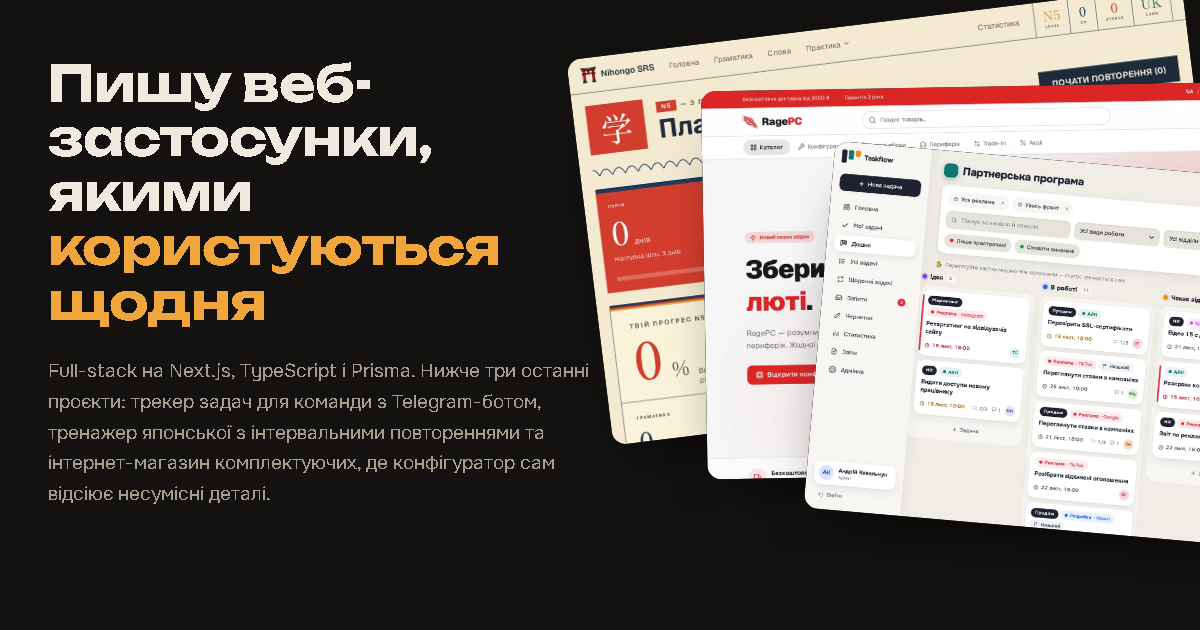
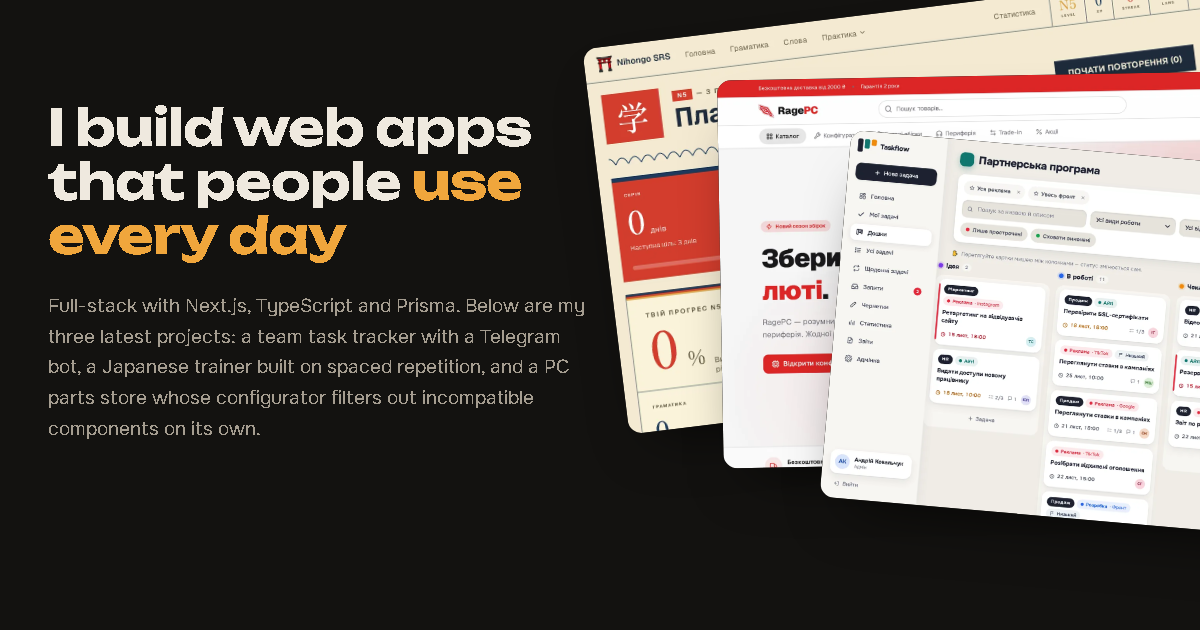
Portfolio in English

diff --git a/index.html b/index.html
@@ -1,13 +1,13 @@
 <!doctype html>
-<html lang="uk">
+<html lang="en">
 <head>
 <meta charset="utf-8">
 <meta name="viewport" content="width=device-width, initial-scale=1">
-<title>Mariia157 — портфоліо</title>
-<meta name="description" content="Full-stack розробка на Next.js і TypeScript: трекер задач для команди, тренажер японської з інтервальними повтореннями, інтернет-магазин ПК з конфігуратором.">
-<meta property="og:title" content="Mariia157 — портфоліо">
-<meta property="og:description" content="Трекер задач, тренажер японської, магазин ПК з конфігуратором. Next.js, TypeScript, Prisma.">
-<meta property="og:image" content="https://mariia157.github.io/img/og.png?v=3">
+<title>Mariia157 — portfolio</title>
+<meta name="description" content="Full-stack development with Next.js and TypeScript: a team task tracker, a Japanese trainer with spaced repetition, a PC store with a build configurator.">
+<meta property="og:title" content="Mariia157 — portfolio">
+<meta property="og:description" content="A task tracker, a Japanese trainer, a PC store with a configurator. Next.js, TypeScript, Prisma.">
+<meta property="og:image" content="https://mariia157.github.io/img/og.png?v=4">
 <meta property="og:type" content="website">
 <meta name="theme-color" content="#131210">
 <link rel="icon" href="favicon.svg" type="image/svg+xml">
@@ -224,7 +224,7 @@ dialog img{max-height:94vh;width:auto;border-radius:10px;cursor:zoom-out}
       <a href="#taskflow">Taskflow</a>
       <a href="#nihongo">Nihongo SRS</a>
       <a href="#ragepc">RagePC</a>
-      <a href="#other">Інше</a>
+      <a href="#other">Earlier</a>
       <a class="gh" href="https://github.com/Mariia157">GitHub</a>
     </nav>
   </div>
@@ -233,10 +233,10 @@ dialog img{max-height:94vh;width:auto;border-radius:10px;cursor:zoom-out}
 <section class="hero">
   <div class="wrap">
     <div>
-      <h1>Пишу веб-застосунки, якими <em>користуються щодня</em></h1>
-      <p class="lead">Full-stack на Next.js, TypeScript і Prisma. Нижче три останні проєкти: трекер задач для команди з Telegram-ботом, тренажер японської з інтервальними повтореннями та інтернет-магазин комплектуючих, де конфігуратор сам відсіює несумісні деталі.</p>
+      <h1>I build web apps that people <em>use every day</em></h1>
+      <p class="lead">Full-stack with Next.js, TypeScript and Prisma. Below are my three latest projects: a team task tracker with a Telegram bot, a Japanese trainer built on spaced repetition, and a PC parts store whose configurator filters out incompatible components on its own.</p>
       <div class="cta">
-        <a class="btn btn-acc" href="#taskflow">Дивитися проєкти
+        <a class="btn btn-acc" href="#taskflow">See the projects
           <svg class="ico" viewBox="0 0 24 24"><path d="M12 5v14M5 12l7 7 7-7"/></svg></a>
         <a class="btn btn-ghost" href="https://github.com/Mariia157">
           <svg viewBox="0 0 24 24" fill="currentColor"><path d="M12 .5a11.5 11.5 0 0 0-3.64 22.41c.58.1.79-.25.79-.56v-2c-3.2.7-3.88-1.37-3.88-1.37-.53-1.33-1.28-1.69-1.28-1.69-1.05-.71.08-.7.08-.7 1.16.08 1.77 1.19 1.77 1.19 1.03 1.77 2.7 1.26 3.36.96.1-.75.4-1.26.73-1.55-2.56-.29-5.25-1.28-5.25-5.69 0-1.26.45-2.29 1.19-3.1-.12-.29-.52-1.46.11-3.05 0 0 .97-.31 3.17 1.18a11 11 0 0 1 5.77 0c2.2-1.49 3.17-1.18 3.17-1.18.63 1.59.23 2.76.11 3.05.74.81 1.19 1.84 1.19 3.1 0 4.42-2.7 5.4-5.27 5.68.41.36.78 1.06.78 2.14v3.17c0 .31.21.67.8.56A11.5 11.5 0 0 0 12 .5Z"/></svg>
@@ -257,26 +257,26 @@ dialog img{max-height:94vh;width:auto;border-radius:10px;cursor:zoom-out}
     <div class="title">
       <div>
         <h2>Taskflow</h2>
-        <div class="meta"><span>Next.js 16</span><span>TypeScript</span><span>Prisma + SQLite</span><span>Telegram-бот</span><span>PDFKit</span><span>Vitest</span></div>
+        <div class="meta"><span>Next.js 16</span><span>TypeScript</span><span>Prisma + SQLite</span><span>Telegram bot</span><span>PDFKit</span><span>Vitest</span></div>
       </div>
-      <a class="repo" href="https://github.com/Mariia157/task-manager">Код на GitHub
+      <a class="repo" href="https://github.com/Mariia157/task-manager">Code on GitHub
         <svg class="ico" viewBox="0 0 24 24"><path d="M7 17 17 7M8 7h9v9"/></svg></a>
     </div>
   </div>
-  <div class="wrap"><div class="bleed"><div class="shot"><img src="img/tf-board.webp" alt="Канбан-дошка проєкту з колонками Ідея, В роботі, Чекає відповіді, Перевірка, Готово" width="1800" height="1069" loading="lazy"></div></div></div>
+  <div class="wrap"><div class="bleed"><div class="shot"><img src="img/tf-board.webp" alt="Project kanban board with Idea, In progress, Waiting for reply, Review and Done columns" width="1800" height="1069" loading="lazy"></div></div></div>
   <div class="wrap">
     <div class="body">
-      <p class="lead">Трекер задач для команди з кількох відділів. Дошки працюють як у Trello, а поверх них є те, чого Trello не вміє: рівні доступу, запити на погодження, щоденні задачі, звіти по людях у PDF і бот, що надсилає сповіщення в Telegram.</p>
+      <p class="lead">A task tracker for a team with several departments. Boards work like Trello, and on top of them comes what Trello can’t do: access levels, approval requests, daily tasks, per-person PDF reports and a bot that sends notifications to Telegram.</p>
       <div class="feat">
-        <div><b>Чотири рівні доступу</b><p>Виконавець, керівник групи, керівник відділу, адмін. Кожен бачить тільки свої картки.</p></div>
-        <div><b>Запити на погодження</b><p>Задача поза правами автора не губиться, а йде адміну на підтвердження.</p></div>
-        <div><b>Підзадачі та щоденні задачі</b><p>Прогрес батьківської задачі рахується сам, щоденні створюються автоматично й ведуть історію по днях.</p></div>
-        <div><b>Звіти в PDF</b><p>Працівник і період на вибір. Хто що виконав, скільки в строк, що прострочено, розбивка по проєктах.</p></div>
+        <div><b>Four access levels</b><p>Assignee, team lead, department head, admin. Everyone sees only their own cards.</p></div>
+        <div><b>Approval requests</b><p>A task outside the author’s permissions isn’t lost: it goes to the admin for approval.</p></div>
+        <div><b>Subtasks and daily tasks</b><p>Parent task progress is calculated automatically; daily tasks are created on their own and keep a day-by-day history.</p></div>
+        <div><b>PDF reports</b><p>Pick a person and a period. Who did what, how much on time, what’s overdue, a breakdown by project.</p></div>
       </div>
     </div>
     <div class="pair">
-      <figure style="margin:0"><div class="shot"><img src="img/tf-stats.webp" alt="Статистика виконаних задач по днях" width="1400" height="875" loading="lazy"></div><figcaption>Статистика по відділах і проєктах</figcaption></figure>
-      <figure style="margin:0"><div class="shot phone"><img src="img/tf-mobile.webp" alt="Головний екран трекера на телефоні" width="600" height="1298" loading="lazy"></div></figure>
+      <figure style="margin:0"><div class="shot"><img src="img/tf-stats.webp" alt="Completed tasks per day" width="1400" height="875" loading="lazy"></div><figcaption>Statistics by department and project</figcaption></figure>
+      <figure style="margin:0"><div class="shot phone"><img src="img/tf-mobile.webp" alt="Tracker home screen on a phone" width="600" height="1298" loading="lazy"></div></figure>
     </div>
   </div>
 </section>
@@ -285,36 +285,36 @@ dialog img{max-height:94vh;width:auto;border-radius:10px;cursor:zoom-out}
 <section class="proj jp" id="nihongo">
   <div class="wrap">
     <div class="head">
-      <h2>Nihongo SRS<small>Тренажер японської для рівнів JLPT N5–N1</small></h2>
-      <p>Слова, кандзі й граматика проходять через <strong>один алгоритм інтервальних повторень SM-2</strong>, як в Anki. Курс граматики зібраний за уроками Genki, до кожної теми є теорія, приклади й вікторина. Над кандзі автоматично стоїть фуригана, а аудіювання озвучує Web Speech API. Інтерфейс англійською та українською.</p>
+      <h2>Nihongo SRS<small>A Japanese trainer for JLPT levels N5 to N1</small></h2>
+      <p>Vocabulary, kanji and grammar all go through <strong>one SM-2 spaced repetition algorithm</strong>, like in Anki. The grammar course follows the Genki lessons, with theory, examples and a quiz for every topic. Furigana appears above kanji automatically, and listening exercises are voiced with the Web Speech API. The interface is in English and Ukrainian.</p>
     </div>
   </div>
   <div class="wrap shelf-bar">
-    <p class="hint"><svg class="ico" viewBox="0 0 24 24"><path d="M4 12h16M14 6l6 6-6 6"/></svg>5 екранів, гортайте вбік</p>
+    <p class="hint"><svg class="ico" viewBox="0 0 24 24"><path d="M4 12h16M14 6l6 6-6 6"/></svg>5 screens, scroll sideways</p>
     <div class="arrows">
-      <button class="arr" type="button" data-dir="-1" aria-label="Попередній скриншот"><svg class="ico" viewBox="0 0 24 24"><path d="M15 5l-7 7 7 7"/></svg></button>
-      <button class="arr" type="button" data-dir="1" aria-label="Наступний скриншот"><svg class="ico" viewBox="0 0 24 24"><path d="M9 5l7 7-7 7"/></svg></button>
+      <button class="arr" type="button" data-dir="-1" aria-label="Previous screenshot"><svg class="ico" viewBox="0 0 24 24"><path d="M15 5l-7 7 7 7"/></svg></button>
+      <button class="arr" type="button" data-dir="1" aria-label="Next screenshot"><svg class="ico" viewBox="0 0 24 24"><path d="M9 5l7 7-7 7"/></svg></button>
     </div>
   </div>
   <div class="shelf-box" id="shelfBox">
-  <div class="shelf" id="shelf" tabindex="0" aria-label="Скриншоти Nihongo SRS">
-    <figure><div class="shot"><img src="img/jp-kanji.webp" alt="Сітка кандзі рівня N5" width="1400" height="875" loading="lazy"></div><figcaption>103 кандзі рівня N5 з перекладом</figcaption></figure>
-    <figure><div class="shot"><img src="img/jp-kanji-detail.webp" alt="Картка кандзі 私 з читаннями он і кун" width="1400" height="875" loading="lazy"></div><figcaption>Картка кандзі: читання, поєднання, радикали, мнемоніка</figcaption></figure>
-    <figure class="tall"><div class="shot"><img src="img/jp-mobile.webp?v=2" alt="Головна сторінка на телефоні" width="600" height="1298" loading="lazy"></div><figcaption>Мобільна версія</figcaption></figure>
-    <figure><div class="shot"><img src="img/jp-grammar.webp" alt="Розділи граматики за уроками Genki" width="1400" height="875" loading="lazy"></div><figcaption>Граматика за уроками Genki 1 і 2</figcaption></figure>
-    <figure><div class="shot"><img src="img/jp-vocab.webp" alt="Словник за рівнями JLPT" width="1400" height="875" loading="lazy"></div><figcaption>Словник: слово в чергу вивчення одним кліком</figcaption></figure>
+  <div class="shelf" id="shelf" tabindex="0" aria-label="Nihongo SRS screenshots">
+    <figure><div class="shot"><img src="img/jp-kanji.webp" alt="N5 kanji grid" width="1400" height="875" loading="lazy"></div><figcaption>103 N5 kanji with translations</figcaption></figure>
+    <figure><div class="shot"><img src="img/jp-kanji-detail.webp" alt="Kanji card for 私 with on and kun readings" width="1400" height="875" loading="lazy"></div><figcaption>Kanji card: readings, compounds, radicals, mnemonic</figcaption></figure>
+    <figure class="tall"><div class="shot"><img src="img/jp-mobile.webp?v=2" alt="Home page on a phone" width="600" height="1298" loading="lazy"></div><figcaption>Mobile layout</figcaption></figure>
+    <figure><div class="shot"><img src="img/jp-grammar.webp" alt="Grammar sections following the Genki lessons" width="1400" height="875" loading="lazy"></div><figcaption>Grammar following Genki 1 and 2</figcaption></figure>
+    <figure><div class="shot"><img src="img/jp-vocab.webp" alt="Vocabulary by JLPT level" width="1400" height="875" loading="lazy"></div><figcaption>Vocabulary: one click adds a word to the study queue</figcaption></figure>
   </div>
   </div>
   <div class="wrap"><div class="track" aria-hidden="true"><i id="shelfThumb"></i></div></div>
   <div class="wrap">
     <div class="nums">
-      <div>552<span>слова в базі, 149 з прикладами речень</span></div>
-      <div>49<span>граматичних тем у 13 розділах</span></div>
-      <div>675<span>вправ на граматику, плюс аудіювання й читання</span></div>
+      <div>552<span>words in the database, 149 with example sentences</span></div>
+      <div>49<span>grammar topics in 13 sections</span></div>
+      <div>675<span>grammar exercises, plus listening and reading</span></div>
     </div>
     <div class="foot">
       <span>Next.js 16 · TypeScript · Tailwind v4 · Prisma 7 · SQLite / PostgreSQL · Vitest</span>
-      <a class="repo" href="https://github.com/Mariia157/japanese-study-web">Код на GitHub
+      <a class="repo" href="https://github.com/Mariia157/japanese-study-web">Code on GitHub
         <svg class="ico" viewBox="0 0 24 24"><path d="M7 17 17 7M8 7h9v9"/></svg></a>
     </div>
   </div>
@@ -326,20 +326,20 @@ dialog img{max-height:94vh;width:auto;border-radius:10px;cursor:zoom-out}
     <div>
       <h2>RagePC</h2>
       <div class="meta"><span>Next.js 16</span><span>React 19</span><span>PostgreSQL</span><span>Prisma</span></div>
-      <p class="lead">Інтернет-магазин комплектуючих і готових збірок. Головне в ньому конфігуратор: він веде від процесора до блока живлення й на кожному кроці ховає деталі, які не підійдуть.</p>
+      <p class="lead">An online store for PC components and prebuilt systems. Its centerpiece is the configurator: it walks you from the CPU to the power supply and at every step hides the parts that won’t fit.</p>
       <ul>
-        <li><svg class="ico" viewBox="0 0 24 24"><rect x="6" y="6" width="12" height="12" rx="2"/><path d="M9 2v4M15 2v4M9 18v4M15 18v4M2 9h4M2 15h4M18 9h4M18 15h4"/></svg><span><b>Перевірка сумісності.</b> Сокет, тип пам'яті, форм-фактор, довжина відеокарти, TDP кулера.</span></li>
-        <li><svg class="ico" viewBox="0 0 24 24"><path d="M13 2 4 14h7l-1 8 9-12h-7z"/></svg><span><b>Розрахунок живлення.</b> Сумарне споживання збірки, і блоки живлення без запасу відсіюються.</span></li>
-        <li><svg class="ico" viewBox="0 0 24 24"><circle cx="9" cy="20" r="1.5"/><circle cx="18" cy="20" r="1.5"/><path d="M2 3h3l2.5 12h11L21 7H6"/></svg><span><b>Повний цикл покупки.</b> Каталог із фільтрами, обране, кошик, оформлення замовлення, особистий кабінет з історією.</span></li>
-        <li><svg class="ico" viewBox="0 0 24 24"><circle cx="12" cy="12" r="9"/><path d="M3 12h18M12 3a14 14 0 0 1 0 18M12 3a14 14 0 0 0 0 18"/></svg><span><b>Три мови і темна тема.</b> Українська, російська, англійська, адаптивна верстка під телефон.</span></li>
+        <li><svg class="ico" viewBox="0 0 24 24"><rect x="6" y="6" width="12" height="12" rx="2"/><path d="M9 2v4M15 2v4M9 18v4M15 18v4M2 9h4M2 15h4M18 9h4M18 15h4"/></svg><span><b>Compatibility checks.</b> Socket, memory type, form factor, GPU length, cooler TDP.</span></li>
+        <li><svg class="ico" viewBox="0 0 24 24"><path d="M13 2 4 14h7l-1 8 9-12h-7z"/></svg><span><b>Power estimate.</b> The build’s total power draw; power supplies without headroom are filtered out.</span></li>
+        <li><svg class="ico" viewBox="0 0 24 24"><circle cx="9" cy="20" r="1.5"/><circle cx="18" cy="20" r="1.5"/><path d="M2 3h3l2.5 12h11L21 7H6"/></svg><span><b>The full purchase flow.</b> A filtered catalog, favorites, cart, checkout, an account page with order history.</span></li>
+        <li><svg class="ico" viewBox="0 0 24 24"><circle cx="12" cy="12" r="9"/><path d="M3 12h18M12 3a14 14 0 0 1 0 18M12 3a14 14 0 0 0 0 18"/></svg><span><b>Three languages and a dark theme.</b> Ukrainian, Russian, English, with a responsive layout for phones.</span></li>
       </ul>
-      <a class="repo" href="https://github.com/Mariia157/RagePC">Код на GitHub
+      <a class="repo" href="https://github.com/Mariia157/RagePC">Code on GitHub
         <svg class="ico" viewBox="0 0 24 24"><path d="M7 17 17 7M8 7h9v9"/></svg></a>
     </div>
     <div class="stage">
-      <div class="shot back"><img src="img/rage-home.webp" alt="Головна сторінка RagePC" width="1600" height="1000" loading="lazy"></div>
-      <div class="shot front"><img src="img/rage-configure.webp" alt="Конфігуратор: обрані процесор, плата, пам'ять, відеокарта, охолодження й підсумкове споживання" width="1600" height="810" loading="lazy"></div>
-      <div class="shot phone"><img src="img/rage-mobile.webp" alt="RagePC на телефоні" width="600" height="1298" loading="lazy"></div>
+      <div class="shot back"><img src="img/rage-home.webp" alt="RagePC home page" width="1600" height="1000" loading="lazy"></div>
+      <div class="shot front"><img src="img/rage-configure.webp" alt="Configurator: selected CPU, motherboard, memory, GPU, cooler and total power draw" width="1600" height="810" loading="lazy"></div>
+      <div class="shot phone"><img src="img/rage-mobile.webp" alt="RagePC on a phone" width="600" height="1298" loading="lazy"></div>
     </div>
   </div>
 </section>
@@ -347,11 +347,11 @@ dialog img{max-height:94vh;width:auto;border-radius:10px;cursor:zoom-out}
 <!-- Other -->
 <section class="other" id="other">
   <div class="wrap">
-    <h2>Раніше: C++, ігри й десктоп</h2>
+    <h2>Earlier: C++, games and desktop</h2>
     <div class="rows">
-      <a class="row" href="https://github.com/Mariia157/TimeRun"><b>TimeRun</b><p>Прототип гри на Unreal Engine 5 з режимами платформера, бою та сайд-скролера</p><span class="tech">C++ · Unreal Engine 5</span><span class="yr">2026 <svg class="ico" viewBox="0 0 24 24"><path d="M7 17 17 7M8 7h9v9"/></svg></span></a>
-      <a class="row" href="https://github.com/Mariia157/DoodleJump"><b>DoodleJump</b><p>Аркадний платформер-стрибалка з ворогами, чорними дірами й хітбоксами</p><span class="tech">C++ · SDL</span><span class="yr">2026 <svg class="ico" viewBox="0 0 24 24"><path d="M7 17 17 7M8 7h9v9"/></svg></span></a>
-      <a class="row" href="https://github.com/Mariia157/QtCalculator"><b>QtCalculator</b><p>Десктопний калькулятор з інтерфейсом у Qt Designer</p><span class="tech">C++ · Qt Widgets</span><span class="yr">2025 <svg class="ico" viewBox="0 0 24 24"><path d="M7 17 17 7M8 7h9v9"/></svg></span></a>
+      <a class="row" href="https://github.com/Mariia157/TimeRun"><b>TimeRun</b><p>A game prototype in Unreal Engine 5 with platforming, combat and side-scrolling modes</p><span class="tech">C++ · Unreal Engine 5</span><span class="yr">2026 <svg class="ico" viewBox="0 0 24 24"><path d="M7 17 17 7M8 7h9v9"/></svg></span></a>
+      <a class="row" href="https://github.com/Mariia157/DoodleJump"><b>DoodleJump</b><p>An arcade jumping platformer with enemies, black holes and hitboxes</p><span class="tech">C++ · SDL</span><span class="yr">2026 <svg class="ico" viewBox="0 0 24 24"><path d="M7 17 17 7M8 7h9v9"/></svg></span></a>
+      <a class="row" href="https://github.com/Mariia157/QtCalculator"><b>QtCalculator</b><p>A desktop calculator with a UI built in Qt Designer</p><span class="tech">C++ · Qt Widgets</span><span class="yr">2025 <svg class="ico" viewBox="0 0 24 24"><path d="M7 17 17 7M8 7h9v9"/></svg></span></a>
     </div>
   </div>
 </section>
@@ -359,21 +359,21 @@ dialog img{max-height:94vh;width:auto;border-radius:10px;cursor:zoom-out}
 <!-- Stack -->
 <section class="stack">
   <div class="wrap">
-    <h2>З чим працюю</h2>
+    <h2>What I work with</h2>
     <div class="cols">
-      <div><h3><svg class="ico" viewBox="0 0 24 24"><rect x="3" y="4" width="18" height="16" rx="2"/><path d="M3 9h18"/></svg>Інтерфейс</h3><p>Next.js App Router, React 19, TypeScript, Tailwind CSS v4, dnd-kit для перетягування, Recharts для графіків, адаптивна верстка.</p></div>
-      <div><h3><svg class="ico" viewBox="0 0 24 24"><ellipse cx="12" cy="5" rx="8" ry="3"/><path d="M4 5v14c0 1.7 3.6 3 8 3s8-1.3 8-3V5M4 12c0 1.7 3.6 3 8 3s8-1.3 8-3"/></svg>Сервер і дані</h3><p>Server Actions, Prisma 7, PostgreSQL і SQLite, власні сесії з bcrypt, генерація PDF, Telegram Bot API.</p></div>
-      <div><h3><svg class="ico" viewBox="0 0 24 24"><path d="M9 11l3 3 8-8"/><path d="M20 12v7a2 2 0 0 1-2 2H6a2 2 0 0 1-2-2V5a2 2 0 0 1 2-2h9"/></svg>Якість і викладка</h3><p>Vitest, e2e-прогони на Playwright, ESLint, PM2 і Nginx на VPS, атомарна викладка скриптом.</p></div>
-      <div><h3><svg class="ico" viewBox="0 0 24 24"><path d="m8 9-4 3 4 3M16 9l4 3-4 3M14 5l-4 14"/></svg>C++</h3><p>Unreal Engine 5, Qt Widgets, SDL. Звідси звичка думати про пам'ять і продуктивність.</p></div>
+      <div><h3><svg class="ico" viewBox="0 0 24 24"><rect x="3" y="4" width="18" height="16" rx="2"/><path d="M3 9h18"/></svg>Front end</h3><p>Next.js App Router, React 19, TypeScript, Tailwind CSS v4, dnd-kit for drag and drop, Recharts for charts, responsive layouts.</p></div>
+      <div><h3><svg class="ico" viewBox="0 0 24 24"><ellipse cx="12" cy="5" rx="8" ry="3"/><path d="M4 5v14c0 1.7 3.6 3 8 3s8-1.3 8-3V5M4 12c0 1.7 3.6 3 8 3s8-1.3 8-3"/></svg>Server and data</h3><p>Server Actions, Prisma 7, PostgreSQL and SQLite, custom sessions with bcrypt, PDF generation, Telegram Bot API.</p></div>
+      <div><h3><svg class="ico" viewBox="0 0 24 24"><path d="M9 11l3 3 8-8"/><path d="M20 12v7a2 2 0 0 1-2 2H6a2 2 0 0 1-2-2V5a2 2 0 0 1 2-2h9"/></svg>Quality and deployment</h3><p>Vitest, end-to-end runs with Playwright, ESLint, PM2 and Nginx on a VPS, atomic scripted deploys.</p></div>
+      <div><h3><svg class="ico" viewBox="0 0 24 24"><path d="m8 9-4 3 4 3M16 9l4 3-4 3M14 5l-4 14"/></svg>C++</h3><p>Unreal Engine 5, Qt Widgets, SDL. That’s where my habit of thinking about memory and performance comes from.</p></div>
     </div>
   </div>
 </section>
 
 <footer class="end">
   <div class="wrap">
-    <p>Код усіх проєктів відкритий. Якщо хочеться подивитися глибше, ніж скриншоти, усе тут:</p>
+    <p>All of the code is open. If you want to look deeper than the screenshots, it’s all here:</p>
     <a class="big" href="https://github.com/Mariia157">github.com/Mariia157</a>
-    <small>Скриншоти зняті з локально запущених проєктів на демо-даних.</small>
+    <small>Screenshots were taken from the projects running locally with demo data. The apps’ interfaces are in Ukrainian.</small>
   </div>
 </footer>
 
